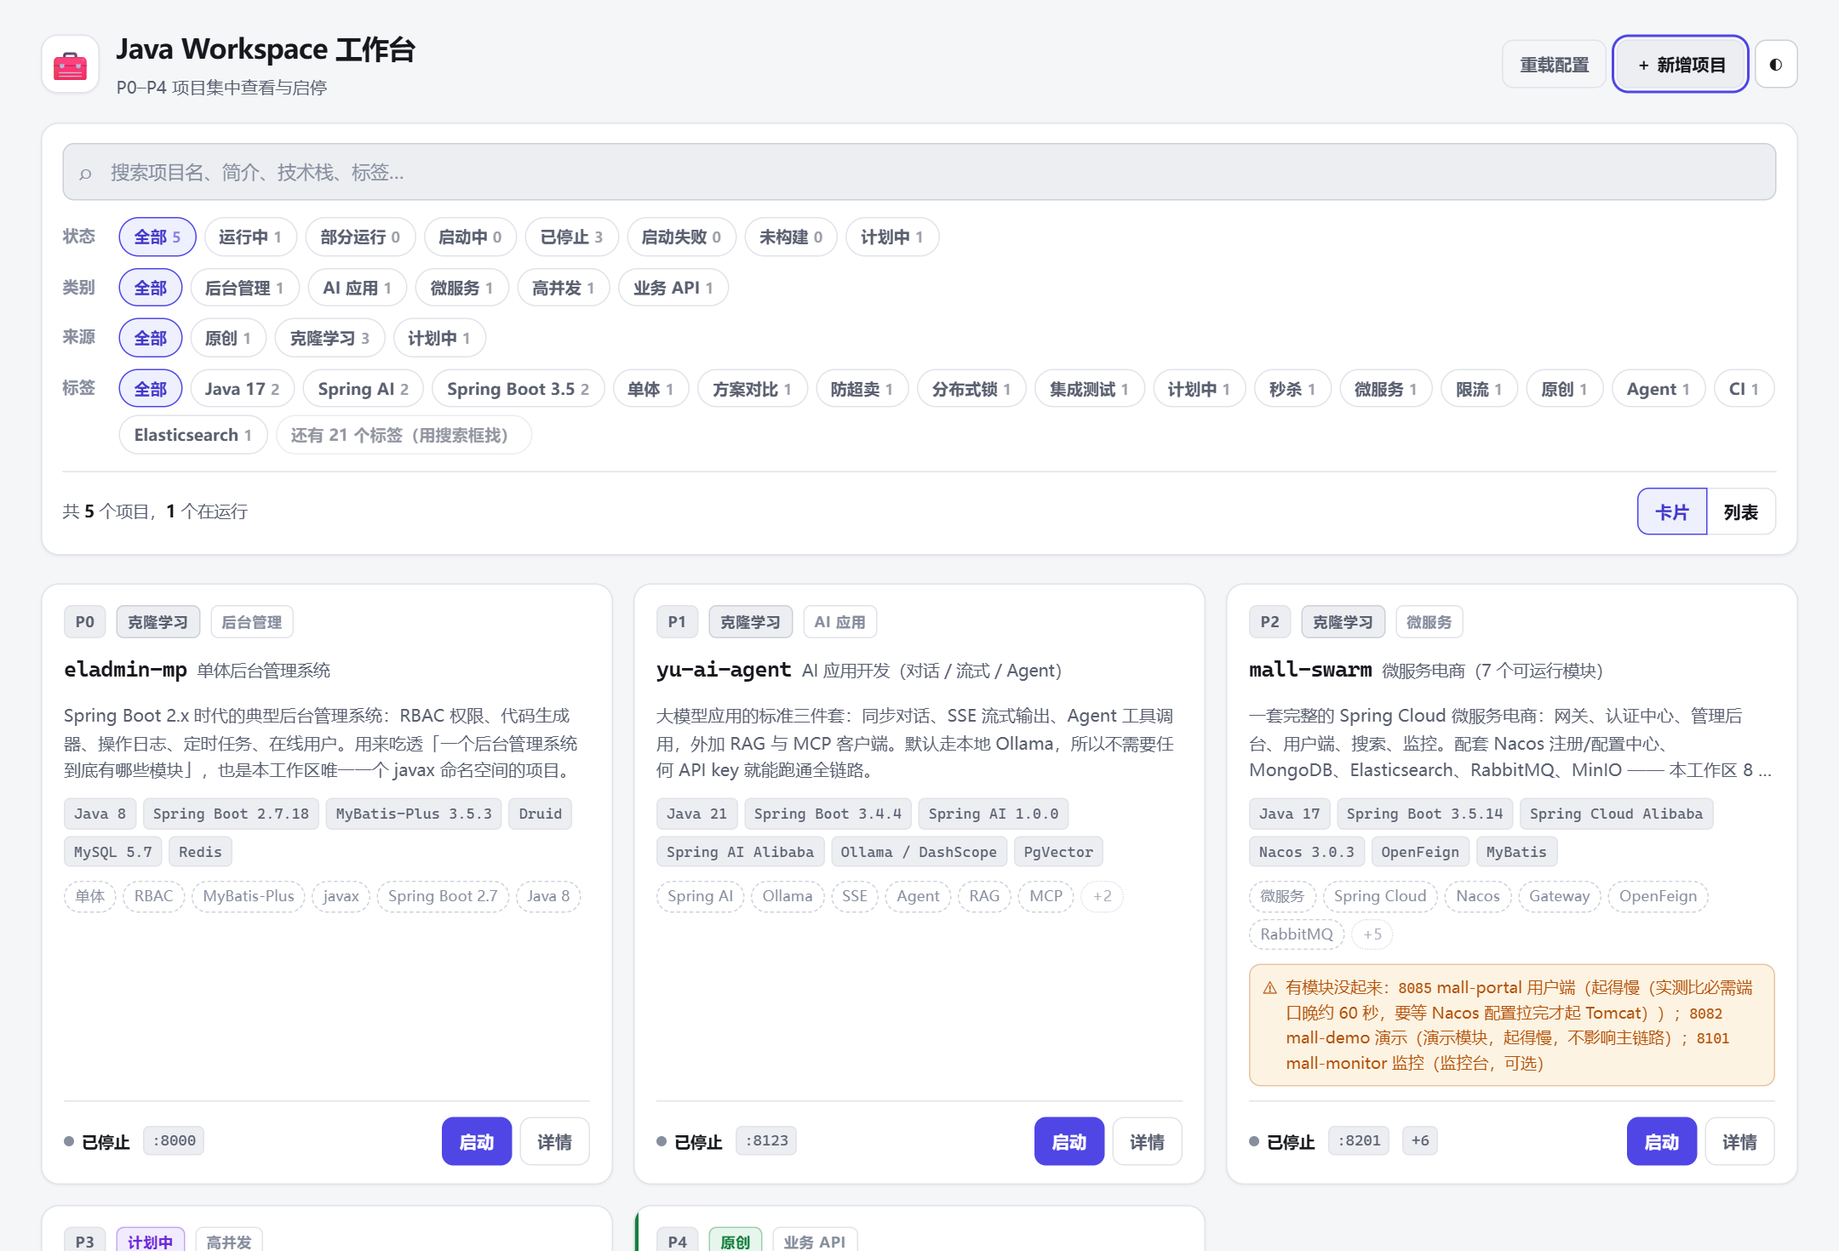
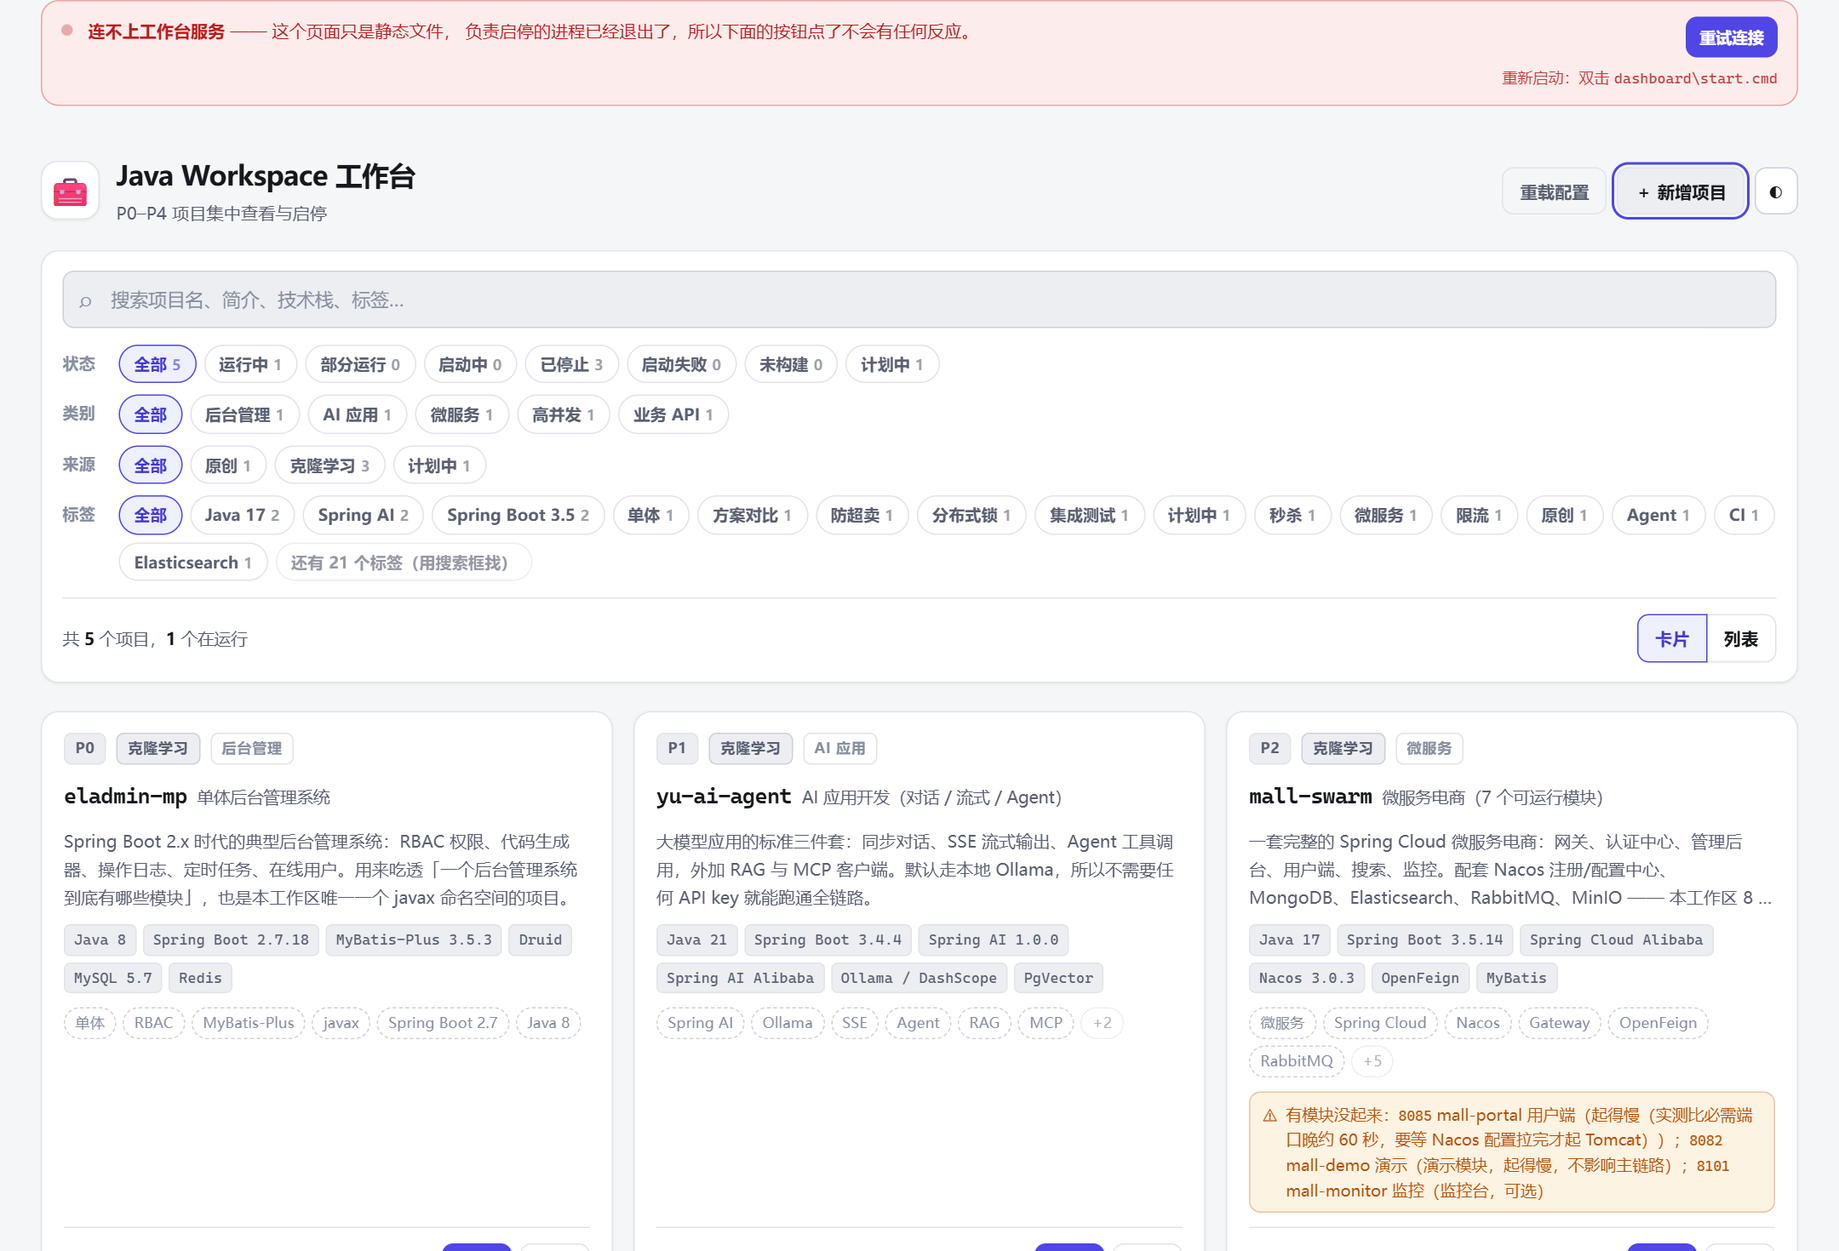
fix(dashboard): 工作台进程退出后页面不再装死，明确告诉你「是我没了，不是项目起不来」
问题（darling 报的「都启动不了」）：
  工作台是个独立进程，页面只是它托管的静态文件。它一退出，页面不会
  自己知道 —— 用户点「启动」只得到一句 "Failed to fetch"，
  看起来像**项目**起不来，其实是**工作台自己**没了。
  而且按钮不置灰，用户会一直点，越点越困惑。

实测澄清：项目本身都是好的（P0 12 秒、P4 6~8 秒正常起来），
「都启动不了」纯粹是后端已经不在。

改动：
- web/app.js  api() 里区分「压根没连上」（fetch reject）和
  「请求被拒」（HTTP 4xx/5xx，正常 resolve），前者调 setOffline(true)。
- web/app.js  新增 setOffline()：挂/收顶部横幅、写断开原因、触发 render()
  让卡片按钮状态跟上；断线时重试间隔从默认缩到 3000ms。
- web/app.js  cardHTML()  断线时禁用「启动 / 停止」并给出 title 说明；
  「打开」「详情」保持可用（这俩不需要后端，还能看已有状态）。
- web/app.js  bind() 接上横幅里的「重试连接」按钮。
- web/index.html  加 #offline 常驻横幅，直接写明恢复办法（双击 start.cmd）。
- web/style.css   .offline 样式 + offlinePulse 动画 + 窄屏换行。
- verify-ui.js  新增第十二段 8 项断言：用 route 拦截复现断线，
  验横幅出现、文案点明「连不上工作台服务」、含 start.cmd、
  启停按钮 disabled、详情仍可用，再解除拦截验证一键恢复。
  放在「页面没有 JS 报错」之后，避免污染那条断言。
  63/63 通过，产出 target/dashboard-offline.png。

文档：
- README.md / dashboard/README.md  断言计数 55 -> 63、坑位 12 -> 13。
- dashboard/README.md  新增 §6.13「工作台进程退出后，页面不会自己知道」。

diff --git a/dashboard/web/app.js b/dashboard/web/app.js
@@ -23,6 +23,8 @@ const S = {
   timer: null,
   pending: new Set(),   // 正在发请求的项目 id，避免连点
   drawerId: null,
+  offline: false,       // 工作台进程是不是已经联系不上了（见 setOffline）
+  offlineWhy: '',
 };
 
 const $ = (sel, root = document) => root.querySelector(sel);
@@ -72,11 +74,43 @@ function stateText(p) {
 }
 
 async function api(path, opts) {
-  const r = await fetch(path, Object.assign({ headers: { 'Content-Type': 'application/json' } }, opts));
+  let r;
+  try {
+    r = await fetch(path, Object.assign({ headers: { 'Content-Type': 'application/json' } }, opts));
+  } catch (e) {
+    // ★ fetch 只在「压根没连上」时才 reject；HTTP 4xx/5xx 是正常 resolve。
+    //   所以这里能干净地把「工作台进程没了」和「这个请求被拒了」分开。
+    setOffline(true, `请求 ${path} 时连接被拒绝`);
+    throw new Error('连不上工作台服务 —— 它可能已经退出了');
+  }
+  setOffline(false);
   let body = null;
   try { body = await r.json(); } catch (_) { /* 非 JSON */ }
   if (!r.ok) throw new Error((body && body.error) || `${r.status} ${r.statusText}`);
   return body;
+}
+
+// -------------------------------------------------------------- 连接状态 --
+// ★ 为什么要专门做这件事（实测踩过）：
+//   工作台是一个独立进程，页面只是它托管的静态文件。它一退出
+//   （Ctrl+C、被 taskkill、崩了），页面不会自己知道 ——
+//   于是用户点「启动」只得到一句 "Failed to fetch"，
+//   看起来像**项目**起不来，其实是**工作台自己**没了；
+//   而且按钮不置灰，用户会一直点，越点越困惑。
+//   所以把「服务还在不在」做成一个显式状态：断了就挂常驻横幅 + 禁掉启停按钮，
+//   并且把恢复办法（双击 start.cmd）直接写在横幅上。
+function setOffline(off, why) {
+  const nextWhy = off ? (why || '') : '';
+  if (S.offline === off && S.offlineWhy === nextWhy) return;
+  S.offline = off;
+  S.offlineWhy = nextWhy;
+  const el = $('#offline');
+  if (el) {
+    el.hidden = !off;
+    const w = $('#offline-why');
+    if (w) w.textContent = nextWhy ? `（${nextWhy}）` : '';
+  }
+  render();   // 让卡片上的按钮禁用状态跟上
 }
 
 let toastTimer = null;
@@ -229,15 +263,20 @@ function cardHTML(p) {
   const running = st === 'running';
 
   let actions = '';
+  // 服务断了就没法启停 —— 直接禁用并说明原因。
+  // 比让用户点了没反应好：那时他只会以为「项目起不来」。
+  const off = S.offline ? 'disabled title="连不上工作台服务，启停不可用（见顶部横幅）"' : '';
   if (p.launch.canStart) {
     if (busy) {
       actions += `<button class="btn" disabled>${esc(stateText(p))}…</button>`;
     } else if (running) {
       if (p.openUrl) actions += `<button class="btn btn-primary" data-act="open" data-id="${esc(p.id)}">打开</button>`;
-      actions += `<button class="btn btn-danger" data-act="stop" data-id="${esc(p.id)}">停止</button>`;
+      actions += `<button class="btn btn-danger" data-act="stop" data-id="${esc(p.id)}" ${off}>停止</button>`;
     } else {
+      const t = S.offline ? '连不上工作台服务，启停不可用（见顶部横幅）'
+              : (p.declared === 'needs-build' ? '构建产物不存在，启动会失败' : '');
       actions += `<button class="btn btn-primary" data-act="start" data-id="${esc(p.id)}"
-        ${p.declared === 'needs-build' ? 'title="构建产物不存在，启动会失败"' : ''}>启动</button>`;
+        ${S.offline ? 'disabled' : ''} ${t ? `title="${esc(t)}"` : ''}>启动</button>`;
     }
   }
   actions += `<button class="btn btn-ghost" data-act="detail" data-id="${esc(p.id)}">详情</button>`;
@@ -609,10 +648,11 @@ function tick(delay) {
       if (busy) await loadSystem();
       if (S.drawerId) loadJobLog(S.drawerId);
     } catch (e) {
-      // 服务挂了就别刷屏，慢下来重试
+      // 服务挂了就别刷屏。横幅由 api() 里的 setOffline() 负责挂上，
+      // 这里只补一句结果行；重试间隔缩短，好让「服务又起来了」尽快被发现。
       $('#result-line').innerHTML = `<span style="color:var(--bad)">连不上工作台服务：${esc(e.message)}</span>`;
     }
-    tick();
+    tick(S.offline ? 3000 : undefined);
   }, d);
 }
 
@@ -683,6 +723,18 @@ function bind() {
 
   $('#btn-refresh').addEventListener('click', reloadConfig);
   $('#btn-add').addEventListener('click', showTemplate);
+
+  // 横幅上的「重试连接」：服务重新起来后不用刷新整页
+  const retry = $('#btn-offline-retry');
+  if (retry) retry.addEventListener('click', async () => {
+    try {
+      await loadProjects();
+      await loadSystem();
+      toast('已重新连上工作台服务', 'ok');
+    } catch (e) {
+      toast('还是连不上：' + e.message, 'bad');
+    }
+  });
   $('#btn-theme').addEventListener('click', () => {
     const cur = document.documentElement.dataset.theme;
     applyTheme(cur === 'dark' ? 'light' : 'dark');

diff --git a/dashboard/verify-ui.js b/dashboard/verify-ui.js
@@ -301,6 +301,46 @@ async function waitFor(page, fn, timeoutMs, label) {
   const realErrors = errors.filter(e => !/favicon/i.test(e));
   ok('页面没有 JS 报错', realErrors.length === 0, realErrors.slice(0, 4));
 
+  // ------------------------------------------ 服务断开时的表现（放最后）--
+  // ★ 这一段测的是「工作台进程退出后，页面怎么表现」。
+  //   实测踩过：进程没了，页面只是它托管的静态文件，不会自己知道 ——
+  //   用户点「启动」只得到一句 "Failed to fetch"，看起来像**项目**起不来，
+  //   而且按钮不置灰，用户会一直点、越点越困惑。
+  //   这里用 route 拦截把 /api/ 全断掉来复现那个状态，不需要真去杀进程。
+  //
+  //   为什么放在报错检查之后：fetch 失败会在控制台留下一条 error，
+  //   放前面会把「页面没有 JS 报错」这条断言弄脏。
+  section('十二、工作台服务断开时的表现');
+  await page.evaluate(() => window.scrollTo(0, 0));
+  await page.route(/\/api\//, route => route.abort());
+  await page.click('#btn-refresh');                       // 触发一次必然失败的请求
+  const bannerUp = await waitFor(page,
+    () => !document.querySelector('#offline').hidden, 6000, '断线横幅出现');
+  ok('服务断开后挂出常驻横幅', bannerUp);
+
+  const offText = await page.innerText('#offline').catch(() => '');
+  ok('横幅点明是「工作台服务」连不上，而不是项目起不来',
+    /连不上工作台服务/.test(offText), offText.slice(0, 90));
+  ok('横幅直接给出恢复办法（双击 start.cmd）', /start\.cmd/.test(offText));
+  ok('横幅带出了具体原因，不是空泛的「出错了」',
+    /连接被拒绝/.test(offText), offText.slice(0, 120));
+
+  const offDisabled = await page.locator(
+    '.card button[data-act="start"][disabled], .card button[data-act="stop"][disabled]').count();
+  ok('断线时启停按钮被禁用，不再是「点了没反应」', offDisabled >= 1, { offDisabled });
+  const detailAlive = await page.locator('.card button[data-act="detail"]:not([disabled])').count();
+  ok('断线时「详情」仍可用（它不依赖后端）', detailAlive === 5, { detailAlive });
+  await page.screenshot({ path: path.join(DIAG, 'dashboard-offline.png') });
+  console.log('  [OK]  断线态截图 → target/dashboard-offline.png');
+
+  await page.unroute(/\/api\//);
+  await page.click('#btn-offline-retry');
+  const bannerDown = await waitFor(page,
+    () => document.querySelector('#offline').hidden, 8000, '恢复后横幅收起');
+  ok('服务恢复后横幅自动收起', bannerDown);
+  const onEnabled = await page.locator('.card button[data-act="start"]:not([disabled])').count();
+  ok('服务恢复后启停按钮重新可用', onEnabled >= 1, { onEnabled });
+
   // -------------------------------------------------------------- 汇总 --
   console.log('\n' + '─'.repeat(62));
   console.log(`  通过 ${pass} 项，失败 ${fail} 项`);

diff --git a/dashboard/web/style.css b/dashboard/web/style.css
@@ -492,6 +492,33 @@ main { max-width: 1440px; margin: 0 auto; }
 .toast.is-bad { border-left-color: var(--bad); }
 .toast.is-warn { border-left-color: var(--warn); }
 
+/* --------------------------------------------------------- offline banner -- */
+/* 工作台进程退出后，页面自己不会知道。这条横幅是唯一显式的信号，
+   所以它必须够显眼：整行、红色、带脉冲圆点，并且直接写出恢复办法。 */
+.offline {
+  display: flex; align-items: flex-start; gap: 12px;
+  margin: 0 0 16px; padding: 12px 15px;
+  background: var(--bad-soft); color: var(--bad);
+  border: 1px solid color-mix(in srgb, var(--bad) 34%, transparent);
+  border-radius: var(--radius);
+  font-size: 13.4px; line-height: 1.6;
+}
+.offline-dot {
+  flex: 0 0 auto; width: 9px; height: 9px; margin-top: 6px;
+  border-radius: 50%; background: var(--bad);
+  animation: offlinePulse 1.5s ease-in-out infinite;
+}
+@keyframes offlinePulse { 0%, 100% { opacity: 1; } 50% { opacity: .22; } }
+.offline-text { flex: 1 1 auto; min-width: 0; }
+.offline-text strong { font-weight: 650; }
+.offline-why { opacity: .82; }
+.offline-actions {
+  flex: 0 0 auto; display: flex; flex-direction: column;
+  align-items: flex-end; gap: 6px;
+}
+.offline-hint { font-size: 12px; opacity: .85; }
+.offline-hint code { font-size: 11.5px; }
+
 /* -------------------------------------------------------------- responsive */
 @media (max-width: 900px) {
   .grid { grid-template-columns: repeat(auto-fill, minmax(300px, 1fr)); }
@@ -499,6 +526,10 @@ main { max-width: 1440px; margin: 0 auto; }
 @media (max-width: 680px) {
   body { font-size: 14.5px; padding: 0 12px 36px; }
   .topbar { padding: 16px 0 13px; }
+
+  /* 横幅在窄屏下把操作区折到下一行，别挤压正文 */
+  .offline { flex-wrap: wrap; gap: 9px; }
+  .offline-actions { align-items: flex-start; width: 100%; }
   .brand-mark { width: 40px; height: 40px; font-size: 22px; }
   .topbar-actions { width: 100%; }
   .topbar-actions .btn { flex: 1; text-align: center; }

diff --git a/dashboard/web/index.html b/dashboard/web/index.html
@@ -10,6 +10,23 @@
 </head>
 <body>
 
+<!-- ★ 常驻连接状态横幅（默认隐藏，由 app.js 的 setOffline() 控制）。
+     为什么需要它：这个页面只是工作台进程托管的静态文件，进程一退出
+     （Ctrl+C / 被 taskkill / 崩了），页面自己不会知道 ——
+     用户点「启动」只会看到一句 "Failed to fetch"，误以为是项目起不来。 -->
+<div id="offline" class="offline" hidden role="alert">
+  <span class="offline-dot" aria-hidden="true"></span>
+  <div class="offline-text">
+    <strong>连不上工作台服务</strong> —— 这个页面只是静态文件，
+    负责启停的进程已经退出了，所以下面的按钮点了不会有任何反应。
+    <span class="offline-why" id="offline-why"></span>
+  </div>
+  <div class="offline-actions">
+    <button class="btn btn-sm btn-primary" id="btn-offline-retry">重试连接</button>
+    <span class="offline-hint">重新启动：双击 <code>dashboard\start.cmd</code></span>
+  </div>
+</div>
+
 <header class="topbar">
   <div class="brand">
     <span class="brand-mark" aria-hidden="true">🧰</span>

diff --git a/dashboard/README.md b/dashboard/README.md
@@ -50,7 +50,7 @@ dashboard/
 │   ├── index.html
 │   ├── style.css     深浅色 + 响应式，无 CSS 框架
 │   └── app.js        无框架、无构建步骤
-├── verify-ui.js      用真浏览器跑 55 项界面断言
+├── verify-ui.js      用真浏览器跑 63 项界面断言
 ├── start.cmd         一键启动：找 Python / 起服务 / 落日志 / 已运行就只开浏览器
 └── stop.cmd          按端口停止，幂等
 ```
@@ -153,7 +153,7 @@ dashboard/
 ## 5. 验证
 
 ```bash
-# 界面（真浏览器，55 项断言，含三个断点的响应式截图）
+# 界面（真浏览器，63 项断言，含三个断点的响应式截图）
 NODE_PATH="C:/Users/Administrator/.workbuddy-ai/binaries/node/workspace/node_modules" \
   "C:/Users/Administrator/.workbuddy-ai/binaries/node/versions/22.22.2-3/node.exe" \
   dashboard/verify-ui.js
@@ -176,7 +176,7 @@ NODE_PATH="C:/Users/Administrator/.workbuddy-ai/binaries/node/workspace/node_mod
 
 ---
 
-## 6. 设计上踩过的坑（12 条，都不是猜的）
+## 6. 设计上踩过的坑（13 条，都不是猜的）
 
 > **6.9–6.12 是同一批发现的，值得单独说一句。**
 > 它们只在**从普通 Windows 命令行启动**时才出现：WorkBuddy 的 bash 会注入
@@ -361,6 +361,54 @@ cmd 的 `>>` 重定向**打不开别的进程已经持有的文件**。所以
 **默认按 ANSI 代码页读**（中文 Windows 上是 GBK），而这个日志是 UTF-8 写的 ——
 不加 `-Encoding UTF8` 就是满屏 `閫€鍑虹爜`、`鈹屸攢鈹€`，
 看起来像日志本身坏了，实际上是读的人用错了编码。
+
+### 6.13 工作台进程退出后，页面不会自己知道 ★
+
+这是**用户实际踩到的**一条，而且是我自己造成的。
+
+工作台是一个独立进程，页面只是它托管的静态文件。进程一退出
+（Ctrl+C、被 `taskkill`、崩了），页面**不会自己知道** —— 它照常渲染、卡片照常显示、
+按钮照常可点。于是用户点「启动」只得到一句 `Failed to fetch`：
+
+- 看起来像**项目**起不来，其实是**工作台自己**没了；
+- 按钮不置灰，用户会一直点，越点越困惑；
+- 浏览器控制台里那句 `net::ERR_FAILED` 用户不会去看。
+
+**修法**：把「服务还在不在」做成一个显式状态。
+
+```js
+async function api(path, opts) {
+  let r;
+  try {
+    r = await fetch(path, opts);
+  } catch (e) {
+    // ★ fetch 只在「压根没连上」时才 reject；HTTP 4xx/5xx 是正常 resolve。
+    //   所以这里能干净地把「进程没了」和「这个请求被拒了」分开。
+    setOffline(true, `请求 ${path} 时连接被拒绝`);
+    throw new Error('连不上工作台服务 —— 它可能已经退出了');
+  }
+  setOffline(false);
+  /* ... */
+}
+```
+
+`setOffline()` 做三件事：挂一条常驻横幅、把启停按钮禁掉、并在横幅上**直接写出恢复办法**
+（双击 `dashboard\start.cmd`）。「打开」和「详情」不依赖后端，保持可用。
+断线时轮询间隔从 8 秒缩到 3 秒，好让「服务又起来了」尽快被发现。
+
+**怎么测**：不需要真去杀进程 —— 用 playwright 的 route 拦截把 `/api/` 全断掉：
+
+```js
+await page.route(/\/api\//, route => route.abort());
+await page.click('#btn-refresh');
+//   断言：横幅出现、文案点明是「工作台服务」、启停按钮 disabled、详情仍可用
+await page.unroute(/\/api\//);
+await page.click('#btn-offline-retry');
+//   断言：横幅收起、按钮恢复可用
+```
+
+**注意把它放在「页面没有 JS 报错」那条断言之后**：fetch 失败会在控制台留一条 error，
+放前面会把那条断言弄脏。
 
 ---
 

diff --git a/README.md b/README.md
@@ -35,7 +35,7 @@
 >
 > **本工作区自己写的工具**：**[dashboard/](dashboard/)** —— 项目工作台。
 > 一个页面看完 P0–P4 的状态，能筛选能搜索，能真的把项目起起来。
-> 零第三方依赖（标准库 `http.server` + 原生 JS），55 项浏览器断言全通过。
+> 零第三方依赖（标准库 `http.server` + 原生 JS），63 项浏览器断言全通过。
 
 ---
 
@@ -132,11 +132,11 @@ java-workspace\
 │   └── run-p2.md                ← P2 mall-swarm 启动手册
 │
 ├── dashboard\                   ← ★ 本工作区自研：项目工作台（见第 10 节）
-│   ├── README.md                ← 用法 + 加新项目 + 设计上踩过的 12 个坑
+│   ├── README.md                ← 用法 + 加新项目 + 设计上踩过的 13 个坑
 │   ├── projects.json            ← 声明式项目清单：加项目只改这个文件
 │   ├── server.py                ← 零依赖本地服务（标准库 http.server）
 │   ├── start.cmd / stop.cmd     ← 一键启动 / 按端口停止（纯 ASCII + CRLF）
-│   ├── verify-ui.js             ← 真浏览器 55 项界面断言 + 三断点截图
+│   ├── verify-ui.js             ← 真浏览器 63 项界面断言 + 三断点截图
 │   └── web\                     ← index.html / style.css / app.js（无框架无构建）
 │
 ├── tools\                       ← 验证与自动化工具（Python）
@@ -430,7 +430,7 @@ python dashboard/server.py        # 打开 http://127.0.0.1:8990/
 | P2 mall-swarm | 166s | 含自动拉起 5 个中间件，7 个模块全部就绪 |
 | P3 seckill | — | 拒绝启动并说明原因（还没有代码） |
 
-界面验证：`dashboard/verify-ui.js`，真浏览器 **55 项断言全通过**，
+界面验证：`dashboard/verify-ui.js`，真浏览器 **63 项断言全通过**，
 输出桌面/平板/手机/深色四档截图到 `docs/screenshots/`。
 
 ### ⚠ 两个必须知道的环境冲突
